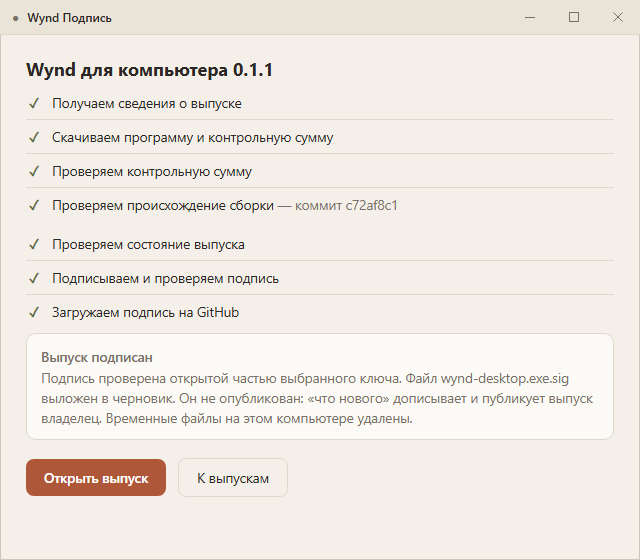
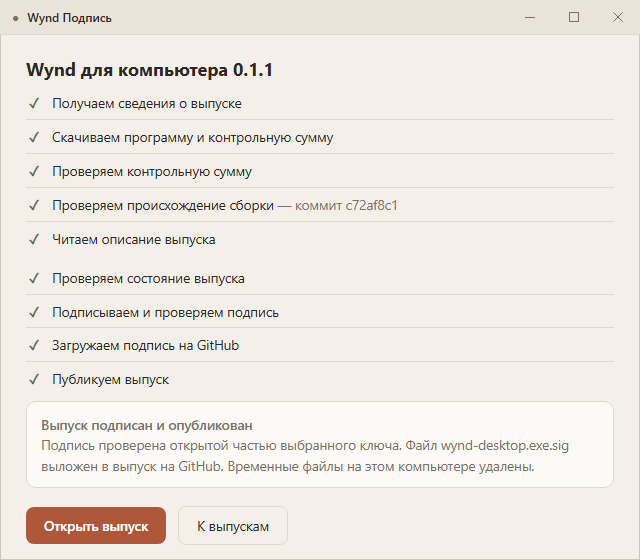
План 63: кадры после решения о публикации

Changed region(s): [[0.0312, 0.5464, 0.9375, 0.9714], [0.0312, 0.3946, 0.375, 0.4554], [0.0938, 0.4857, 0.4375, 0.5161]]

diff --git a/docs/testing/signer-desktop-frames-2026-11-10/report.md b/docs/testing/signer-desktop-frames-2026-11-10/report.md
@@ -11,8 +11,8 @@
 ## Изменение (точный список отличий)
 
 1. **12б — список.** Заголовок «Выпуски Мастерской» → «Выпуски». Строки получают название программы: «Мастерская {версия}» / «Wynd для компьютера {версия}». У черновика окна без подписи — действие «подписать», как у Мастерской. Остальные строки, значки, статусы и нижняя строка «Подписать файл на этом компьютере» не изменены.
-2. **12в — проверка выпуска окна.** Заголовок «Мастерская {версия}» → «{программа} {версия}». Четыре этапа проверки (сведения о выпуске, сумма, удостоверение) без «Проверяем открытый ключ» и «Читаем описание выпуска». Вместо блока `whatsnew` — «Окно обновляется вручную: выпуск останется черновиком, «что нового» и публикацию делает владелец.». Уведомление «В этой сборке нет открытого ключа…» остаётся только у Мастерской. Кнопка «Подписать» (опубликовать окно программа не предлагает).
-3. **12г — итог.** «Файл wynd-desktop.exe.sig выложен в черновик. Он не опубликован: «что нового» дописывает и публикует выпуск владелец.» Для Мастерской текст прежний (`whatsnew.md`).
+2. **12в — проверка выпуска окна.** Заголовок «Мастерская {версия}» → «{программа} {версия}». Пять этапов: сведения о выпуске, сумма, удостоверение, «Читаем описание выпуска» — без «Проверяем открытый ключ» (встроенного ключа самообновления у окна пока нет). «Что нового — из выпуска» читается из `whatsnew.md` в теге (`cmd/wynd-desktop/whatsnew.md`, у Мастерской — `cmd/wynd-installer/whatsnew.md`); при наличии раздела кнопка «Подписать и опубликовать», без раздела — «Подписать» и уведомление «выпуск подпишем, но не опубликуем» — как у Мастерской. Уведомление «В этой сборке нет открытого ключа…» остаётся только у Мастерской.
+3. **12г — итог.** Как у Мастерской: «Выпуск подписан и опубликован», «Файл wynd-desktop.exe.sig выложен в выпуск на GitHub.»; без раздела в `whatsnew.md` — подписан, в черновик, с прежним сообщением про раздел.
 4. **12а — ключ.** «Ключ подписи Мастерской» → «Ключ подписи Wynd». Подзаголовок: «Этим ключом подписываются выпуски Мастерской и Wynd для компьютера. Мастерская принимает обновление, только если новая версия подписана им. Ключ создаётся один раз.» Красное предупреждение внизу не тронуто (говорит только про Мастерскую) — вопрос владельцу ниже.
 5. **12д — подписанный файл.** «Сам exe не изменился: Мастерская примет его только вместе с этим файлом» → «Сам exe не изменился: обновление Мастерской принимается только вместе с этим файлом» (подписывается любой exe, не только Мастерская).
 6. Тексты этапов проверки, названия кнопок и уведомлений у Мастерской не менялись.
@@ -21,7 +21,7 @@
 
 ## Рендер
 
-- Конвейер: `vite` 6.4.5, страница `/mock/mock.html` — та же настоящая `App.svelte`, но `window.go.main.App` подставлен (без GitHub и ключа). Ответы повторяют выпуски `mixeme/wynd` на 2026-11-10: `workshop-v0.4.1`, `workshop-v0.3.1` опубликованы с подписью; `desktop-v0.1.1` — черновик без подписи. Для кадра «до» экрана подписи Мастерская 0.4.1 показана черновиком (`?demo=draft`) — иначе у опубликованного выпуска нет действия «подписать».
+- Конвейер: `vite` 6.4.5, страница `/mock/mock.html` — та же настоящая `App.svelte`, но `window.go.main.App` подставлен (без GitHub и ключа). Ответы повторяют выпуски `mixeme/wynd` на 2026-11-10: `workshop-v0.4.1`, `workshop-v0.3.1` опубликованы с подписью; `desktop-v0.1.1` — черновик без подписи, в ответах проверки у него есть «Что нового» (раздел 0.1.1 — так будет после появления `cmd/wynd-desktop/whatsnew.md` в теге). Для кадра «до» экрана подписи Мастерская 0.4.1 показана черновиком (`?demo=draft`) — иначе у опубликованного выпуска нет действия «подписать».
 - Изменённая версия: `npx vite --host 127.0.0.1 --port 5178 --strictPort` из `cmd/wynd-signer/frontend`; исходная: тот же коммит `70414ecd` в отдельном дереве, порт 5179, `?products=workshop`.
 - Снимок: Microsoft Edge `--headless=new --disable-gpu --hide-scrollbars --window-size=640,560 --virtual-time-budget=6000`, масштаб 100 %, светлая тема (единственная в окне), кадр 640×560 — размеры окна «Подписи» (`main.go`: Width 640, Height 560).
 - Панель ZCode-браузера снимки перестала отдавать (таймаут подготовки поверхности), поэтому снимал headless Edge тем же адресом. Это рендер HTML/Svelte, не нативное окно Wails.
@@ -39,28 +39,28 @@
 | 12а, ключ | [old-create.png](old-create.png) | [new-create.png](new-create.png) |
 | 12д, файл подписан | [old-filedone.png](old-filedone.png) | [new-filedone.png](new-filedone.png) |
 
-Связь с исходником: снимки сняты из рабочего дерева ветки `signer-desktop` после коммитов шага (Go — `internal/signing`; окно — `App.svelte` и `mock/mock.js`); «до» — из дерева на `70414ecd` с тем же `mock/mock.js`.
+Связь с исходником: снимки сняты из рабочего дерева ветки `signer-desktop` после коммитов шага (Go — `internal/signing`; окно — `App.svelte` и `mock/mock.js`); кадры 12в и 12г пересняты после решения владельца о публикации; «до» — из дерева на `70414ecd` с тем же `mock/mock.js`.
 
 ## Осмотр
 
-Просмотрел все десять снимков. Шапка, шрифты, поля, кнопки, отступы и ширина окна совпадают с исходными кадрами; новых элементов компоновки нет, кроме названий программ в строках и заголовке. Тексты помещаются, переносов и обрезки нет; на 640×560 экран подписи окна занимает меньше высоты, прокрутки не требует. Заголовок «Wynd для компьютера 0.1.1» и четыре этапа читаются без сжатия. Красное предупреждение на 12а осталось прежним — это осознанно, но требует решения владельца.
+Просмотрел все десять снимков. Шапка, шрифты, поля, кнопки, отступы и ширина окна совпадают с исходными кадрами; новых элементов компоновки нет, кроме названий программ в строках и заголовке. Тексты помещаются, переносов и обрезки нет; на 640×560 экран подписи окна занимает меньше высоты, прокрутки не требует. Заголовок «Wynd для компьютера 0.1.1», пять этапов проверки и блок «Что нового» читаются без сжатия; кнопка «Подписать и опубликовать» — та же, что у Мастерской. Красное предупреждение на 12а осталось прежним — это осознанно, но требует решения владельца.
 
 Границы: снимки доказывают вид этого рендера в этом браузере; нативное окно Wails, системный заголовок и поведение при других размерах не проверены. DOM-проверки и тесты геометрию не подтверждают.
 
 ## Автоматические проверки
 
-- `go test ./internal/signing` — ok (включая новый `TestDesktopReleaseCheckAndSign`: у окна нет этапов ключа/«что нового», черновик после подписи не публикуется).
+- `go test ./internal/signing` — ok (включая `TestDesktopReleaseCheckAndSign`: у окна нет этапа ключа, «Что нового» читается из `cmd/wynd-desktop/whatsnew.md`, черновик публикуется; и `TestDesktopDraftWithoutNotesStaysDraft`: без раздела — подписан, но черновик).
 - `go vet -tags desktop ./internal/signing ./cmd/wynd-signer`, `go test -tags desktop ./cmd/wynd-signer` — ok.
 - `npm --prefix cmd/wynd-signer/frontend run test` — ok; `run check` — 0 ошибок, 0 предупреждений; `run build` — ok.
 - Границы: эти проверки не подтверждают вёрстку и не заменяют ответ владельца.
 
 ## Ответ владельца
 
-- Смысл (окно подписывается тем же ключом; черновик окна не публикуется программой; у окна четыре проверки): **не получен**.
-- Вёрстка (список с двумя программами, заголовки и тексты кадров): **не получен**.
+- Смысл: **уточнён владельцем 2026-11-10** — «Wynd для компьютера подписывается и публикуется релиз так, как для Мастерской». Кадры 12в и 12г пересняты под эту схему (публикация черновика с разделом `whatsnew.md`, этап «Читаем описание выпуска»).
+- Вёрстка (список с двумя программами, заголовки и тексты кадров): **не получена**.
 
 ## Вопросы владельцу
 
-1. Утвердить смысл и вёрстку показанных кадров. Если отклонён — назвать конкретный элемент, вернусь к нему на этой же основе.
+1. Утвердить вёрстку показанных кадров. Если отклонён — назвать конкретный элемент, вернусь к нему на этой же основе.
 2. 12а: оставить предупреждение только про Мастерскую или дописать про выпуски окна?
 3. Название «Wynd для компьютера» в строках списка устраивает?

diff --git a/docs/plans/63-signer-desktop-release.plan.md b/docs/plans/63-signer-desktop-release.plan.md
@@ -1,18 +1,18 @@
 # 63 — Подпись выпусков «Wynd для компьютера»
 
 **Тип:** инструмент разработчика (окно «Wynd Подпись»).
-**Статус:** 2026-11-10 код и кадры подготовлены в отдельной ветке `signer-desktop` (от `main` `70414ecd`); кадры ждут ответа владельца. Не влито, не выпущено. Выпуски окна на GitHub остаются черновиками: подпись их не публикует.
+**Статус:** 2026-11-10 код и кадры подготовлены в отдельной ветке `signer-desktop` (от `main` `70414ecd`); кадры ждут ответа владельца по вёрстке. Не влито, не выпущено. Подпись и публикация выпусков окна — по той же схеме, что у Мастерской (решение владельца 2026-11-10).
 
 ## Зачем
 
 «Wynd Подпись» подписывала только выпуски Мастерской (`workshop-v…`, `wynd-workshop.exe`). Окно для компьютера собирается тем же способом из тега `desktop-v…` (`wynd-desktop.exe`), но программа этих выпусков не видела — подпись окна была отмечена отдельной задачей в `.github/workflows/desktop-client.yaml`. Владелец 2026-11-10: «Не умеет подписывать Wynd для компьютера».
 
-## Что предлагается (ветка signer-desktop)
+## Что сделано (ветка signer-desktop)
 
-- **Один ключ на обе программы.** Выпуски окна подписываются тем же ключом владельца и тем же форматом `.sig`, что у Мастерской; окно пока само не проверяет подпись при обновлении, но файл подписи готов для этого (отдельная задача самообновления окна).
+- **Один ключ на обе программы.** Выпуски окна подписываются тем же ключом владельца и тем же форматом `.sig`, что у Мастерской.
 - **Список выпусков общий:** строки «Мастерская {версия}» и «Wynd для компьютера {версия}» в одном списке (кадр 12б), заголовок «Выпуски» вместо «Выпуски Мастерской».
-- **Проверки окна короче:** сумма и удостоверение сборки те же; этапов «Проверяем открытый ключ» и «Читаем описание выпуска» у окна нет — встроенного ключа самообновления и `whatsnew.md` у окна ещё нет.
-- **Черновик окна не публикуется подписью.** У Мастерской подпись публикует черновик, когда есть `whatsnew.md`; у окна «что нового» дописывает и выпуск публикует владелец. Программа только выкладывает `wynd-desktop.exe.sig`.
+- **Подпись и публикация как у Мастерской** (решение владельца 2026-11-10): если в теге есть раздел версии в `cmd/wynd-desktop/whatsnew.md`, подпись выкладывает `wynd-desktop.exe.sig` и публикует черновик с этим текстом; нет раздела — выпуск подписывается, но остаётся черновиком (то же сообщение, что у Мастерской).
+- **Проверки окна:** контрольная сумма, удостоверение сборки и «Что нового» — как у Мастерской; этапа «Проверяем открытый ключ» нет, потому что встроенного ключа самообновления у окна пока нет. Когда самообновление окна появится со своим ключом — этап добавится отдельной задачей.
 - **Тексты** экранов 12а/12б/12в/12г/12д под обе программы; вёрстка, шапка, поля, кнопки, интервалы и цвета не меняются.
 
 ## Кадры
@@ -21,7 +21,8 @@
 
 ## Открыто
 
-- [ ] Ответ владельца: смысл и вёрстка кадров (отдельно).
+- [ ] Ответ владельца по вёрстке кадров (смысл уточнён 2026-11-10).
+- [ ] `cmd/wynd-desktop/whatsnew.md` в репозитории ещё нет: у `desktop-v0.1.1` раздела нет, поэтому его подпись черновик не опубликует (как у Мастерской без раздела). Первый выпуск окна с этим файлом опубликуется подписью.
 - [ ] Нативное окно Wails после правки не снималось — только рендер HTML/Svelte в браузере.
-- [ ] Самообновление окна и его `whatsnew` — не эта задача.
+- [ ] Самообновление окна и его экран «что нового» — не эта задача.
 - [ ] Старые кадры 12а–12д в `docs/visual/installer.html` остаются черновиками.
